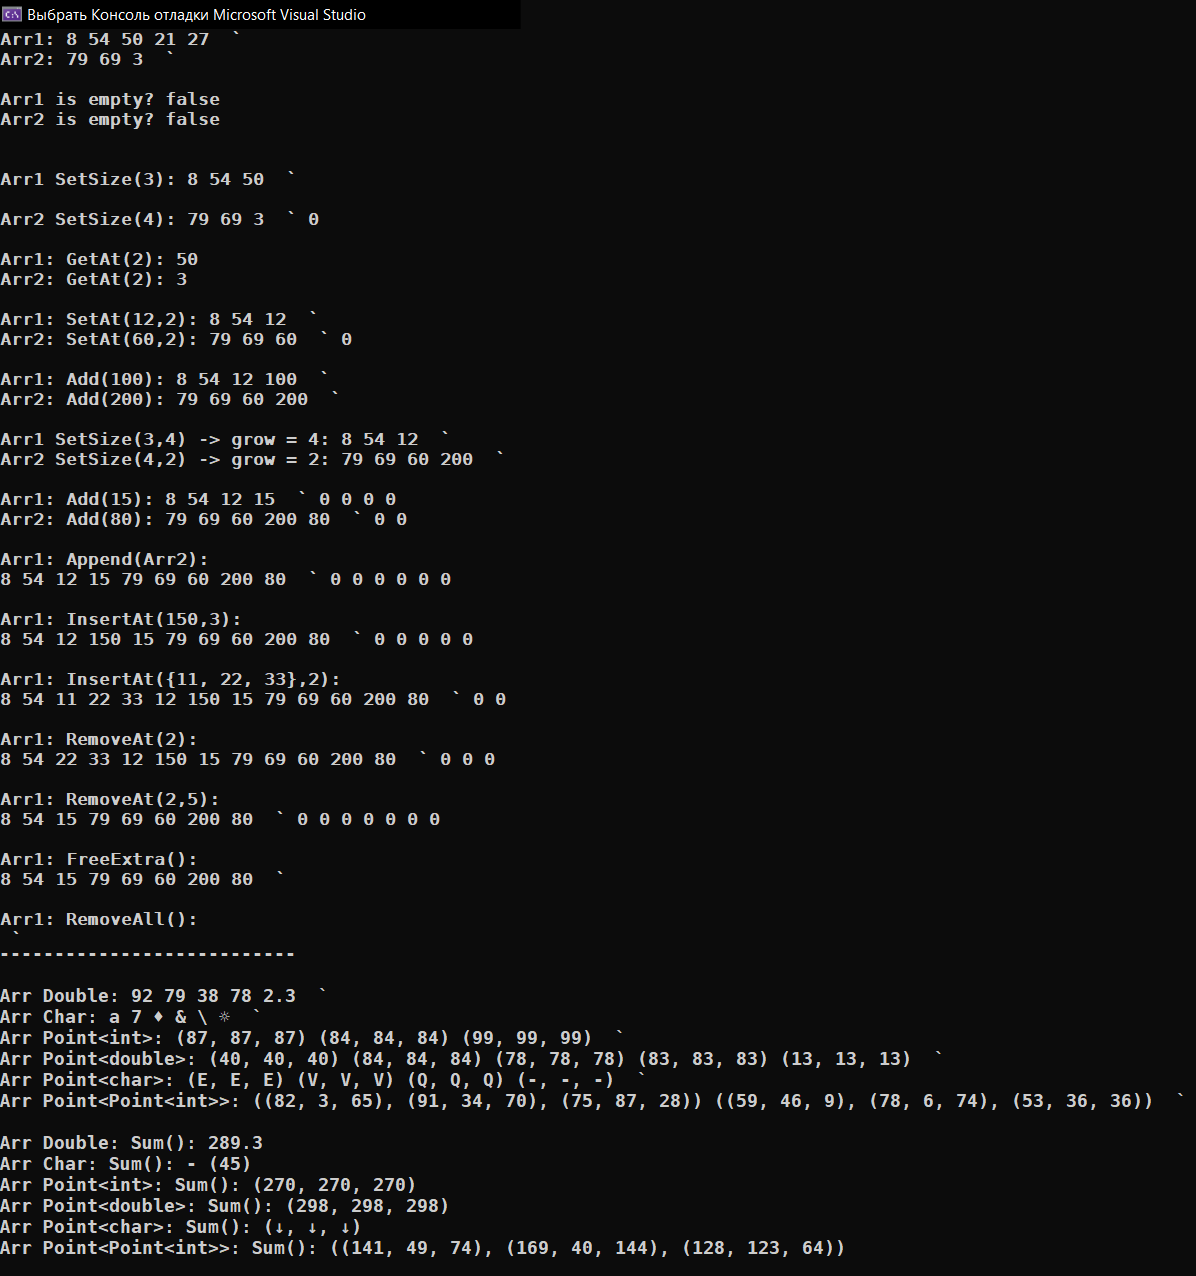
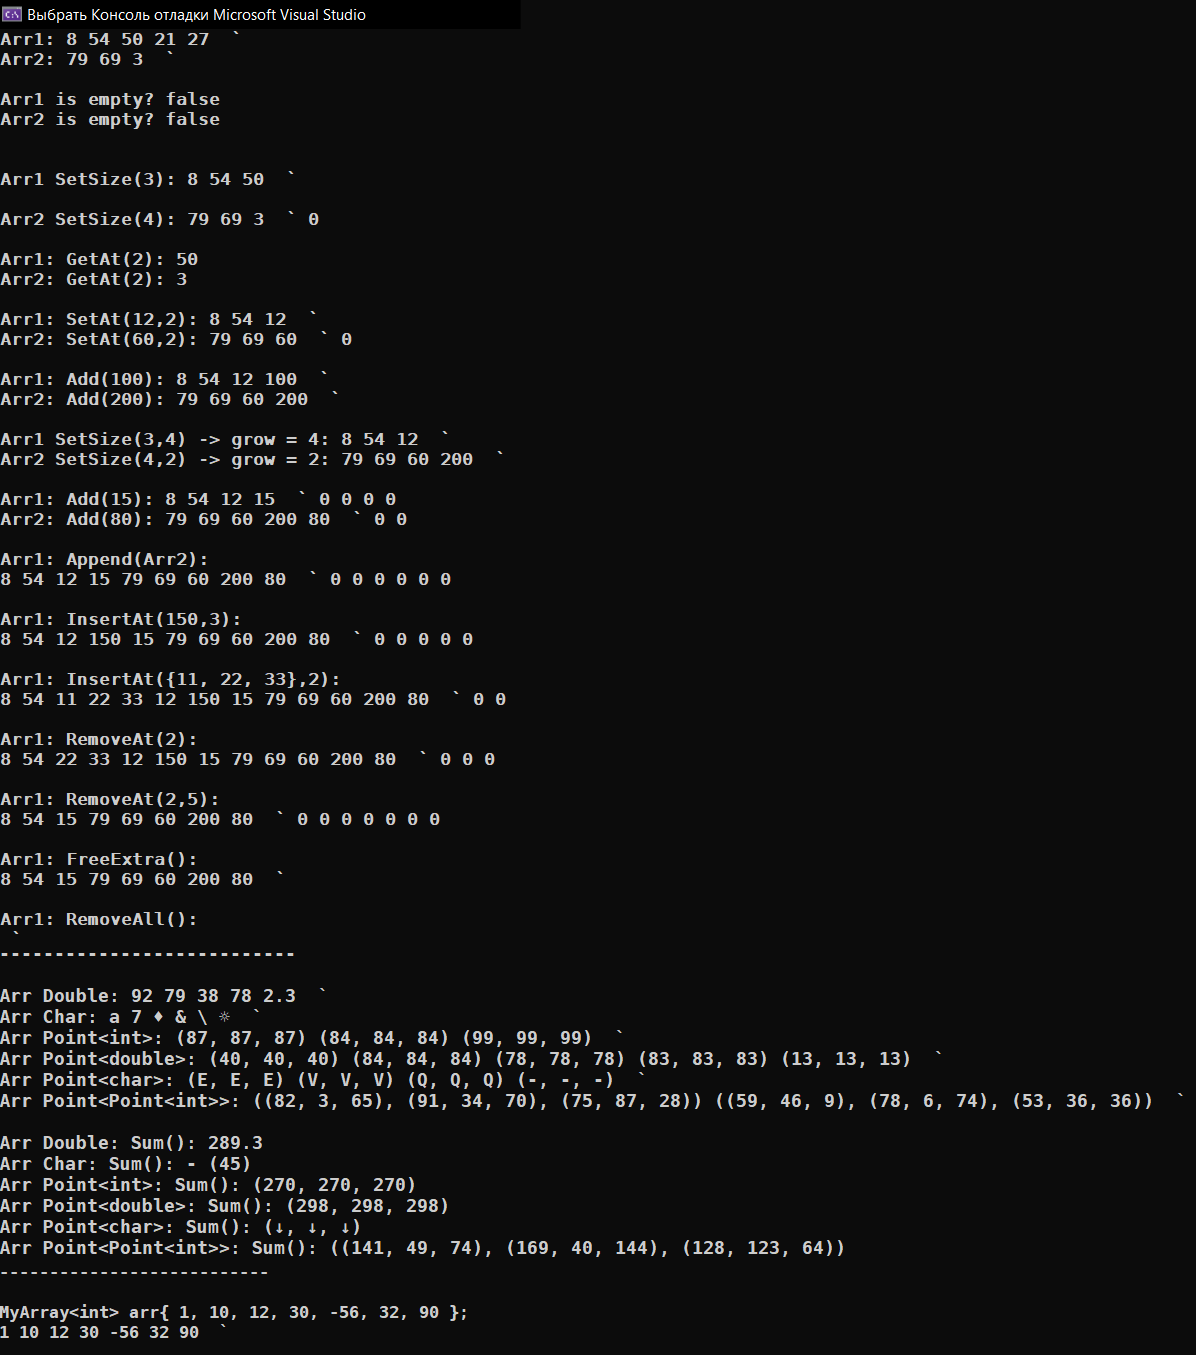
+ initializer_list constructor

diff --git a/main/MyArray.h b/main/MyArray.h
@@ -13,6 +13,7 @@ public:
 	MyArray();
 	MyArray(int size);
 	MyArray(const MyArray<T>& ar);
+	MyArray(const initializer_list<T>& list);
 
 	void Input();
 	void Print();
@@ -80,6 +81,18 @@ MyArray<T>::MyArray(const MyArray<T>& obj)
 	for (int i = count; i < count + extra; i++)
 	{
 		arr[i] = 0;
+	}
+}
+
+template<class T>
+MyArray<T>::MyArray(const initializer_list<T>& list) :
+	MyArray(list.size())
+{
+	int i = 0;
+	for (auto element : list)
+	{
+		arr[i] = element;
+		i++;
 	}
 }
 

diff --git a/main/main.cpp b/main/main.cpp
@@ -163,4 +163,13 @@ int main()
     cout << "\nArr Point<double>: Sum(): " << arrPointDouble.Sum();
     cout << "\nArr Point<char>: Sum(): " << arrPointChar.Sum();
     cout << "\nArr Point<Point<int>>: Sum(): " << arrPointPointInt.Sum() << "\n";
+
+    cout << "\n---------------------------\n\n";
+
+    cout << "MyArray<int> arr{ 1, 10, 12, 30, -56, 32, 90 };\n";
+
+    MyArray<int> arr{ 1, 10, 12, 30, -56, 32, 90 };
+    arr.PrintDev();
+    
+    cout << "\n";
 }
